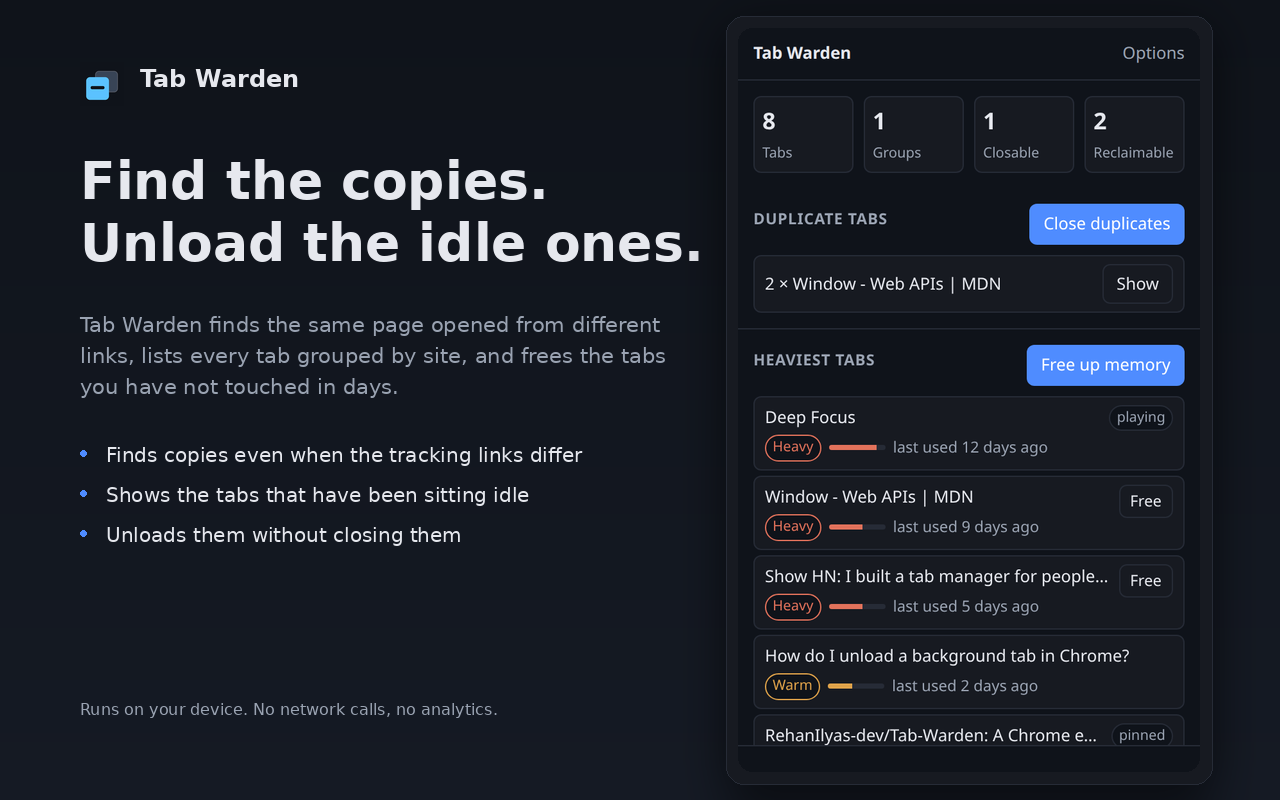
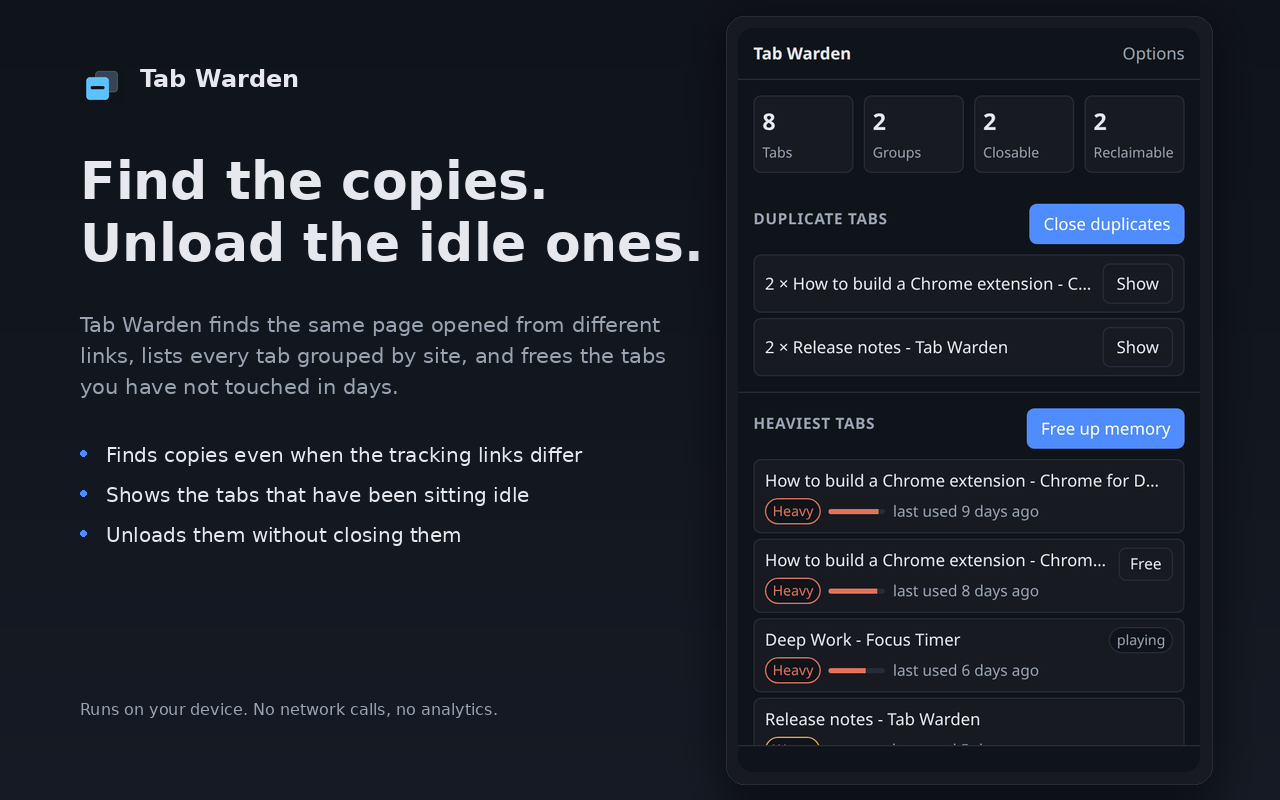
Update the store material for 0.2.0
The privacy policy now covers the fifth preference and the alarms
permission, and it says plainly that the daily run reads the same tab
details once a day and stores nothing but a time and two counts.

The store listing gets the daily clean up in the detailed description,
a justification for the alarms permission, and a note for the reviewer
that the run is off by default and only unloads tabs the user has
already said are idle.

The screenshots and the store graphics are rebuilt from a real capture of
the new popup.

diff --git a/docs/index.html b/docs/index.html
@@ -54,13 +54,14 @@
   <body>
     <main>
       <h1>Tab Warden Privacy Policy</h1>
-      <p class="meta">Last updated: 19 October 2026</p>
+      <p class="meta">Last updated: 21 October 2026</p>
 
       <p>
         Tab Warden is a Chrome extension that finds duplicate tabs, lists every open tab
         grouped by site, closes the copies you choose to remove, and unloads the tabs you
-        have not used. This page explains what it reads, what it stores, and what it does
-        not do.
+        have not used. It can also do that unloading on its own once a day, if you turn
+        that on. This page explains what it reads, what it stores, and what it does not
+        do.
       </p>
 
       <h2>What the extension reads</h2>
@@ -73,19 +74,27 @@
       </ul>
       <p>
         This information is requested from Chrome each time the popup opens. It is held in
-        memory while the popup is open and is never written to disk.
+        memory while the popup is open and is never written to disk. If you turn on the
+        daily clean up, the same tab details are read once a day, in the background, and
+        are used only to decide which tabs to unload. They are not written to disk.
       </p>
 
       <h2>What the extension stores</h2>
       <p>
-        Four preferences are saved on your device with <code>chrome.storage.local</code>:
+        Five preferences are saved on your device with <code>chrome.storage.local</code>:
       </p>
       <ul>
         <li><code>ignorePinnedWhenClosing</code>, whether pinned tabs are skipped when closing or unloading.</li>
         <li><code>confirmBeforeClosing</code>, whether a confirmation row appears before closing.</li>
         <li><code>staleAfterDays</code>, how many days a tab has to be unused before it counts as idle.</li>
         <li><code>skipAudibleWhenDiscarding</code>, whether tabs playing audio are left alone.</li>
+        <li><code>autoFreeEnabled</code>, whether the daily clean up runs on its own.</li>
       </ul>
+      <p>
+        The daily clean up also keeps a record of its last run: the time it ran, how many
+        tabs it unloaded, and how many it kept. That record holds three numbers, no tab
+        titles, no URLs and no browsing history.
+      </p>
       <p>
         Nothing else is stored. No tab titles, URLs, or browsing history are saved.
       </p>
@@ -107,7 +116,13 @@
           duplicates or to tell which tabs have been left idle.
         </li>
         <li>
-          <code>storage</code>: save the four preferences listed above on this device.
+          <code>storage</code>: save the five preferences listed above on this device, and
+          the record of the last daily clean up.
+        </li>
+        <li>
+          <code>alarms</code>: wake the extension up once a day so the daily clean up can
+          run while the browser is open. It is used for nothing else, and it does not send
+          anything over the network.
         </li>
       </ul>
       <p>No other permissions are requested.</p>

diff --git a/docs/store/listing.md b/docs/store/listing.md
@@ -1,6 +1,6 @@
 # Chrome Web Store listing fields
 
-Everything the Developer Dashboard asks for, ready to paste. Last updated 19 October 2026.
+Everything the Developer Dashboard asks for, ready to paste. Last updated 21 October 2026.
 
 ## Store listing tab
 
@@ -10,10 +10,10 @@ Everything the Developer Dashboard asks for, ready to paste. Last updated 19 Oct
 Tab Warden
 ```
 
-**Short description** (max 132 characters, 121 used)
+**Short description** (max 132 characters, 117 used)
 
 ```
-Finds duplicate tabs by URL, lists every open tab grouped by site, closes the copies, and unloads the tabs you left idle.
+Finds duplicate tabs by URL, groups every open tab by site, closes the copies, and unloads the idle ones, once a day.
 ```
 
 **Category**
@@ -45,11 +45,14 @@ The second list rates your tabs, heaviest first. A tab you have not touched for 
 Free up memory
 The Free button unloads one idle tab, and Free up memory unloads all of them at once. Unloading empties the memory a background tab was holding and leaves the tab in place, so it reloads when you click it. Anything you had not saved on that page is lost, so the button asks first.
 
+Daily clean up
+Turn on one switch in the options and the same job runs on its own once a day, while the browser is open. It uses the same rules as the button, so pinned tabs and tabs playing audio are left alone, and it never touches a tab you are looking at in any window. The popup tells you when it last ran and how many tabs it freed.
+
 Every tab, grouped by site
 The third list shows all your open tabs grouped by domain, most recent first. Click any row to jump straight to that tab and bring its window to the front. Rows carry a pinned, playing, or stale tag where it applies.
 
 Private by design
-Everything runs on your device. There are no network requests, no analytics, and no telemetry. Tab addresses and titles are read when the popup opens and are never saved. The only thing stored is your preferences.
+Everything runs on your device. There are no network requests, no analytics, and no telemetry. Tab addresses and titles are read when the popup opens, and once a day if you turn on the daily clean up, and are never saved. The only thing stored is your preferences and a record of the last clean up.
 
 Support
 Report a problem at https://github.com/RehanIlyas-dev/Tab-Warden/issues
@@ -82,7 +85,13 @@ Reads the URL and title of open tabs so duplicates can be found, every tab liste
 **Permission justification, `storage`**
 
 ```
-Saves your preferences on the device: whether pinned tabs are skipped, whether a confirmation appears before anything is closed or unloaded, how many days count as stale, and whether tabs playing audio are left alone.
+Saves your preferences on the device: whether pinned tabs are skipped, whether a confirmation appears before anything is closed or unloaded, how many days count as stale, whether tabs playing audio are left alone, and whether the daily clean up runs on its own. It also keeps a record of the last clean up, which is a time and two counts.
+```
+
+**Permission justification, `alarms`**
+
+```
+Wakes the extension up once a day so the daily clean up can run while the browser is open. Without this permission the clean up could only happen while the popup was open, which is exactly when it is not needed.
 ```
 
 **Remote code**
@@ -98,7 +107,7 @@ No, I am not using remote code.
 | Web history | Yes | No | App functionality, showing, closing, and unloading tabs | No |
 | All other categories | No | No | Not applicable | No |
 
-The tab URL and title is what the extension reads, and Chrome classifies that as web history. It stays in memory for the session and is never written to disk or sent anywhere, so nothing leaves the device.
+The tab URL and title is what the extension reads, and Chrome classifies that as web history. It stays in memory for the session and is never written to disk or sent anywhere, so nothing leaves the device. When the daily clean up is on, the same tab details are read once a day in the background for the same reason and are not stored either.
 
 **Certifications**
 
@@ -129,14 +138,15 @@ Support URL: https://github.com/RehanIlyas-dev/Tab-Warden/issues
 
 ## Package
 
-Upload `tab-warden-0.2.0.zip` from the repo root, built with `npm run package`.
+Upload `tab-warden-0.2.0.zip` from the repo root, built with `npm run package`. The same command also builds `tab-warden-0.2.0.tar.gz` for Linux users, which is attached to the GitHub release.
 
 ## Review notes
 
 Things that could draw a question from a reviewer:
 
 - The single purpose is tab cleanup. The extension does not touch extensions or notifications, so it stays within one purpose.
-- Only two permissions are requested and both are used by shipped features. The tab weight and unload feature added no new permission, it uses the `tabs` permission that was already there.
+- Three permissions are requested and all three are used by shipped features. The tab weight and unload feature added no new permission, it uses the `tabs` permission that was already there. The `alarms` permission was added with the daily clean up and is used for nothing else.
+- The daily clean up is off by default. The user has to turn it on in the options, and when it is on it only unloads tabs that have been idle for the number of days they set, using the same guards as the button.
 - The weight shown in the popup is an estimate, not a memory reading. Chrome does not expose per tab memory to extensions, so the listing says so in plain words.
 - Unloading a tab empties the memory it was holding and the tab reloads when you click it. The confirmation says this.
 - No host permissions, no content scripts, and no remote code.
